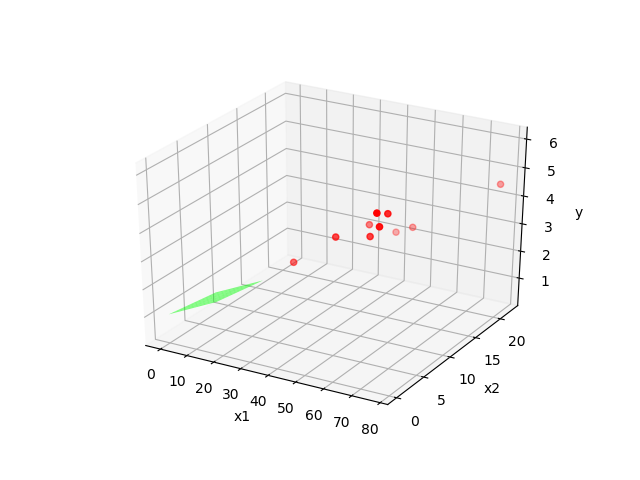
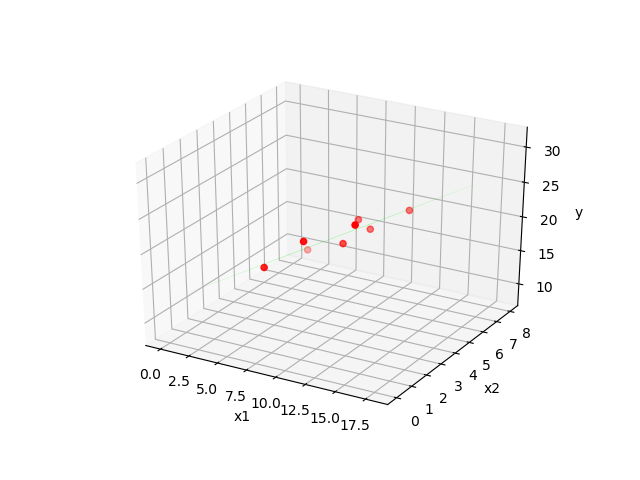
commit on 7/10

diff --git a/C/Network/compiler2019/work/parse01.c b/C/Network/compiler2019/work/parse01.c
@@ -31,7 +31,7 @@ Register reg[REGISTERAVAIABLE];
 void error(char *s);
 void outblock(void);
 void statement(void);
-void expression(int r); //結果をレジスタ[r]に入れる
+void expression(int r); //結果をレジスタ[r]に入れる,
 void condition(int r1,int r2,int order);  //結果をレジスタ[r]に入れる, order 0->if, 1->while
  
 int getxaddr();
@@ -121,7 +121,18 @@ void statement(void){
 
 			expression(raddr);
 			fprintf(outfile,"store	r%d,%d\n",raddr,xaddr);
-			reg[raddr].ident = xaddr; 
+
+			//レジスタの値を更新
+			int i;
+			for (i = 0; i < REGISTERAVAIABLE; i++)
+			{
+				if(reg[i].ident == xaddr){
+					fprintf(outfile,"loadr	r%d,r%d\n",raddr,i);
+				}
+			}
+			
+			reg[raddr].ident = xaddr;
+
 			//fprintf(outfile,"loadr	r%d,r%d\n",r,offset); テスト
 			//fprintf(outfile,"%d\n",tok.value);
 		}else if(tok.value == PERIOD){
@@ -153,7 +164,6 @@ void statement(void){
 		regctrl(rnumber2);
 		expression(rnumber1);
 		condition(rnumber1,rnumber2,0);
-		//printf("xxx%d",tok.value);
 		if(tok.value == ELSE){
 			statement();
 			fprintf(outfile,"L%d:\n",label+1);
@@ -180,12 +190,13 @@ void statement(void){
 		//printf("xx%d",tok.value);
 		condition(rnumber1,rnumber2,1);
 
+		/*if(--looping == 0){
+			looping = label / 2;
+		}*/
 		looping--;
 		/* if(){
 			OffsetFlag = 0;
 		}*/
-
-		//statement();
 
 	}else if(tok.value == WRITE){ //write命令
 		do {
@@ -223,15 +234,16 @@ void expression(int r){
 	if(tok.attr == NUMBER){
 		fprintf(outfile,"loadi	r%d,%d\n",r,tok.value);
 	}else if(tok.attr == IDENTIFIER){
-		/*int find = regsearch();
+		int find = regsearch();
 		if(find != -1 && r != find){
+			fprintf(outfile,"loadr	r%d,r%d\n",r,find);
 			r = find;
 			regctrl(r);
 		}else if(find != -1 && r == find){
 			
-		}else{*/
+		}else{
 			fprintf(outfile,"load	r%d,%d\n",r,getxaddr());
-		//}
+		}
 	}else{
 		printf("error IN EXPRESSION");
 	}
@@ -248,7 +260,15 @@ void expression(int r){
 				if(tok.attr == NUMBER){
 					fprintf(outfile,"addi	r%d,%d\n",r,tok.value);
 				}else if(tok.attr == IDENTIFIER){
-					fprintf(outfile,"add	r%d,%d\n",r,getxaddr());
+					/* int r2 = regsearch();
+					if(r2 != -1 && r != r2){
+						fprintf(outfile,"loadr	r%d,r%d\n",r2,);
+						r = find;
+						regctrl(r);
+					}else{
+						*/
+						fprintf(outfile,"add	r%d,%d\n",r,getxaddr());
+					//}
 					//fprintf(outfile,"addr	r%d,r%d\n",r,getxaddr());
 				}
 				getsym();
@@ -286,6 +306,7 @@ void expression(int r){
 		default: 
 				//fprintf(outfile,"error\n"); 
 				break;
+	
 	}
 }
 
@@ -309,11 +330,10 @@ void compare(int r1,int r2){
 
 //order ifなら0,whileなら1 
 void condition(int r1, int r2, int order){
-	printf("xxx%d,%d\n",tok.value,tok.attr);
 	switch (tok.value){
 			case EQL:
 				compare(r1,r2);
-				fprintf(outfile,"jnz	L%d\n",label+order);
+				fprintf(outfile,"jnz	L%d\n",getlabel(0)+order);
 				if(tok.value == THEN){
 					statement();
 				}else if(tok.value == DO){
@@ -323,16 +343,16 @@ void condition(int r1, int r2, int order){
 				}
 				if(order){
 					//while
-					fprintf(outfile,"jmp	L%d\n",label);
-					fprintf(outfile,"L%d:\n",label+1);
+					fprintf(outfile,"jmp	L%d\n",getlabel(0));
+					fprintf(outfile,"L%d:\n",getlabel(1));
 				}else{
-					fprintf(outfile,"jmp	L%d\n",label+1);
-					fprintf(outfile,"L%d:\n",label);
+					fprintf(outfile,"jmp	L%d\n",getlabel(1));
+					fprintf(outfile,"L%d:\n",getlabel(0));
 				}
 				break;
 			case NOTEQL:
 				compare(r1,r2);
-				fprintf(outfile,"jz	L%d\n",label+order);
+				fprintf(outfile,"jz	L%d\n",getlabel(0)+order);
 				if(tok.value == THEN){
 					statement();
 				}else if(tok.value == DO){
@@ -342,15 +362,14 @@ void condition(int r1, int r2, int order){
 				}
 				if(order){
 					//while
-					fprintf(outfile,"jmp	L%d\n",label);
-					fprintf(outfile,"L%d:\n",label+1);
+					fprintf(outfile,"jmp	L%d\n",getlabel(0));
+					fprintf(outfile,"L%d:\n",getlabel(1));
 				}else{
-					//if
-					fprintf(outfile,"jmp	L%d\n",label+1);
-					fprintf(outfile,"L%d:\n",label);
+					fprintf(outfile,"jmp	L%d\n",getlabel(1));
+					fprintf(outfile,"L%d:\n",getlabel(0));
 				}
 				break;
-
+				
 			case LESSTHAN:
 				compare(r1,r2);
 				fprintf(outfile,"jge	L%d\n",getlabel(0)+order);
@@ -451,9 +470,10 @@ void condition(int r1, int r2, int order){
 				}
 				break;
 			*/
-			case GRTREQL:
+		
+				case GRTREQL:
 				compare(r1,r2);
-				fprintf(outfile,"jlt	L%d\n",label+order);
+				fprintf(outfile,"jlt	L%d\n",getlabel(0)+order);
 				if(tok.value == THEN){
 					statement();
 				}else if(tok.value == DO){
@@ -463,11 +483,11 @@ void condition(int r1, int r2, int order){
 				}
 				if(order){
 					//while
-					fprintf(outfile,"jmp	L%d\n",label);
-					fprintf(outfile,"L%d:\n",label+1);
+					fprintf(outfile,"jmp	L%d\n",getlabel(0));
+					fprintf(outfile,"L%d:\n",getlabel(1));
 				}else{
-					fprintf(outfile,"jmp	L%d\n",label+1);
-					fprintf(outfile,"L%d:\n",label);
+					fprintf(outfile,"jmp	L%d\n",getlabel(1));
+					fprintf(outfile,"L%d:\n",getlabel(0));
 				}
 				break;
 			default:

diff --git a/python/sence/0701_kansei_files/lec6.py b/python/sence/0701_kansei_files/lec6.py
@@ -98,8 +98,8 @@ def drawScatter3D(x,y,z,xlabel,ylabel,zlabel,lx,ly,lz):
 if __name__ == "__main__":
     print("lecture 6")
     
-    fn = "data6-1_p061(UTF8)"
-    #fn = "data6-2_p086(UTF8)"
+    #fn = "data6-1_p061(UTF8)"
+    fn = "data6-2_p086(UTF8)"
     
     data = loadCSV(fn + ".csv",True,True)
 
@@ -111,6 +111,7 @@ if __name__ == "__main__":
     print("x\n",x)
     print("y\n",y)
     
+    n = data.shape[0] 
     p = 2
     X = np.ones([x.shape[0],x.shape[1]+1])
     
@@ -150,7 +151,7 @@ if __name__ == "__main__":
     #print("ly\n",ly)
         
     #dataのプロットと，平面を描画
-    drawScatter3D(x[:,0],x[:,1],y[:],"x1","x2","y",lx1,lx2,ly)
+    #drawScatter3D(x[:,0],x[:,1],y[:],"x1","x2","y",lx1,lx2,ly)
     
     ##寄与率の計算
     y_predict = Beta[0] + Beta[1]*x[:,0] + Beta[2]*x[:,1]
@@ -158,14 +159,25 @@ if __name__ == "__main__":
     #残差
     e_i = y - y_predict
     #残差平方和
-    Se_1 = sum(e_i ** 2)
+    Se = sum(e_i ** 2)
     Sr = np.dot(x[:,0]-x_mean[0], e_i)*Beta[0] + np.dot(x[:,1]-x_mean[1], e_i)*Beta[1]
     
     ##Sr = sum(Sr)
     Syy = sum( (y - y_m) **2 )
     
-    R2 = 1 - Se_1 / Syy
+    R2 = 1 - Se / Syy
     Se_2 = Syy - Sr 
      
-    print("Se\n",Se_1,Se_2,"\nSr(回帰による平方和)\n",Sr,
+    print("Se\n",Se,"\nSr(回帰による平方和)\n",Sr,
                       "\nSyy\n",Syy,"\nR2（寄与率）\n",R2)
+    
+for i in range(0,2):
+    print(i+1, "のみのモデル\n")
+    y_model = Beta[0] + Beta[i+1]*x[:,i]
+    print("y model",i+1,"= \n",y_model)
+    ei = y - y_model
+    ei_avr = np.mean(ei)
+    SE = np.sum(np.dot(ei-ei_avr,ei-ei_avr))
+    print("SE",SE)
+    F0 = (Syy - SE) / (SE / (n-2))
+    print("F0=" , F0)

diff --git a/python/sence/0708/0708.py b/python/sence/0708/0708.py
@@ -1,0 +1,73 @@
+#!/usr/bin/env python3
+# -*- coding: utf-8 -*-
+"""
+Created on Mon Jun 17 16:57:51 2019
+
+@author: akitakazuki
+"""
+
+import numpy as np
+import numpy.linalg as LA
+import matplotlib.pyplot as plt
+
+####################################
+# CSVを読み込む関数
+# filename : ファイル名
+# f_skip_first_row : １行目を読み飛ばすならTrue
+# f_skip_first_col : １列目を読み飛ばすならTrue
+####################################    
+def loadCSV(filename,f_skip_first_row = False,f_skip_first_col=False):
+    _skiprows = 0
+
+    if f_skip_first_row==True:
+        _skiprows = 1
+        
+    d = np.loadtxt(filename,delimiter=',',skiprows=_skiprows)
+    
+
+    if f_skip_first_col==True:
+        d = d[:,1:]
+
+    return d
+
+if __name__ == "__main__":
+    
+    #fn = "data6-1_p061(UTF8)"
+    fn = "../0701_kansei_files/data6-2_p086(UTF8)"
+    
+    data = loadCSV(fn + ".csv",True,True)
+
+    print("data\n",data)
+    
+    x = data[:,:2]
+    x1 = data[:,0]
+    x2 = data[:,1]
+    y = data[:,2]
+    
+    print("x\n",x)
+    print("y\n",y)
+    
+    n = data.shape[0] 
+    
+    avr = np.mean(data, axis = 0)  
+    
+    Sxx = np.dot(data[:,0]-avr[0],data[:,0]-avr[0])
+    Sxy = np.dot(data[:,0]-avr[0],data[:,1]-avr[1])
+    Syy = sum(y - y.avr)
+    
+    B1 = Sxy/Sxx
+    B0 = avr[1] - B1 * avr[0]
+    
+    x = np.arange(2,6,0.01)
+    
+    plt.scatter(x, B1*x+B0, label="y="+str(B1)+"x"+"+"+ str(B0), s = 5, c = "blue")
+    plt.scatter(data[:,0],data[:,1], label="data", c = "orange")
+    plt.xlabel("x")
+    plt.ylabel("y")
+    plt.legend()
+    #plt.show()
+    
+    
+    
+    
+    
